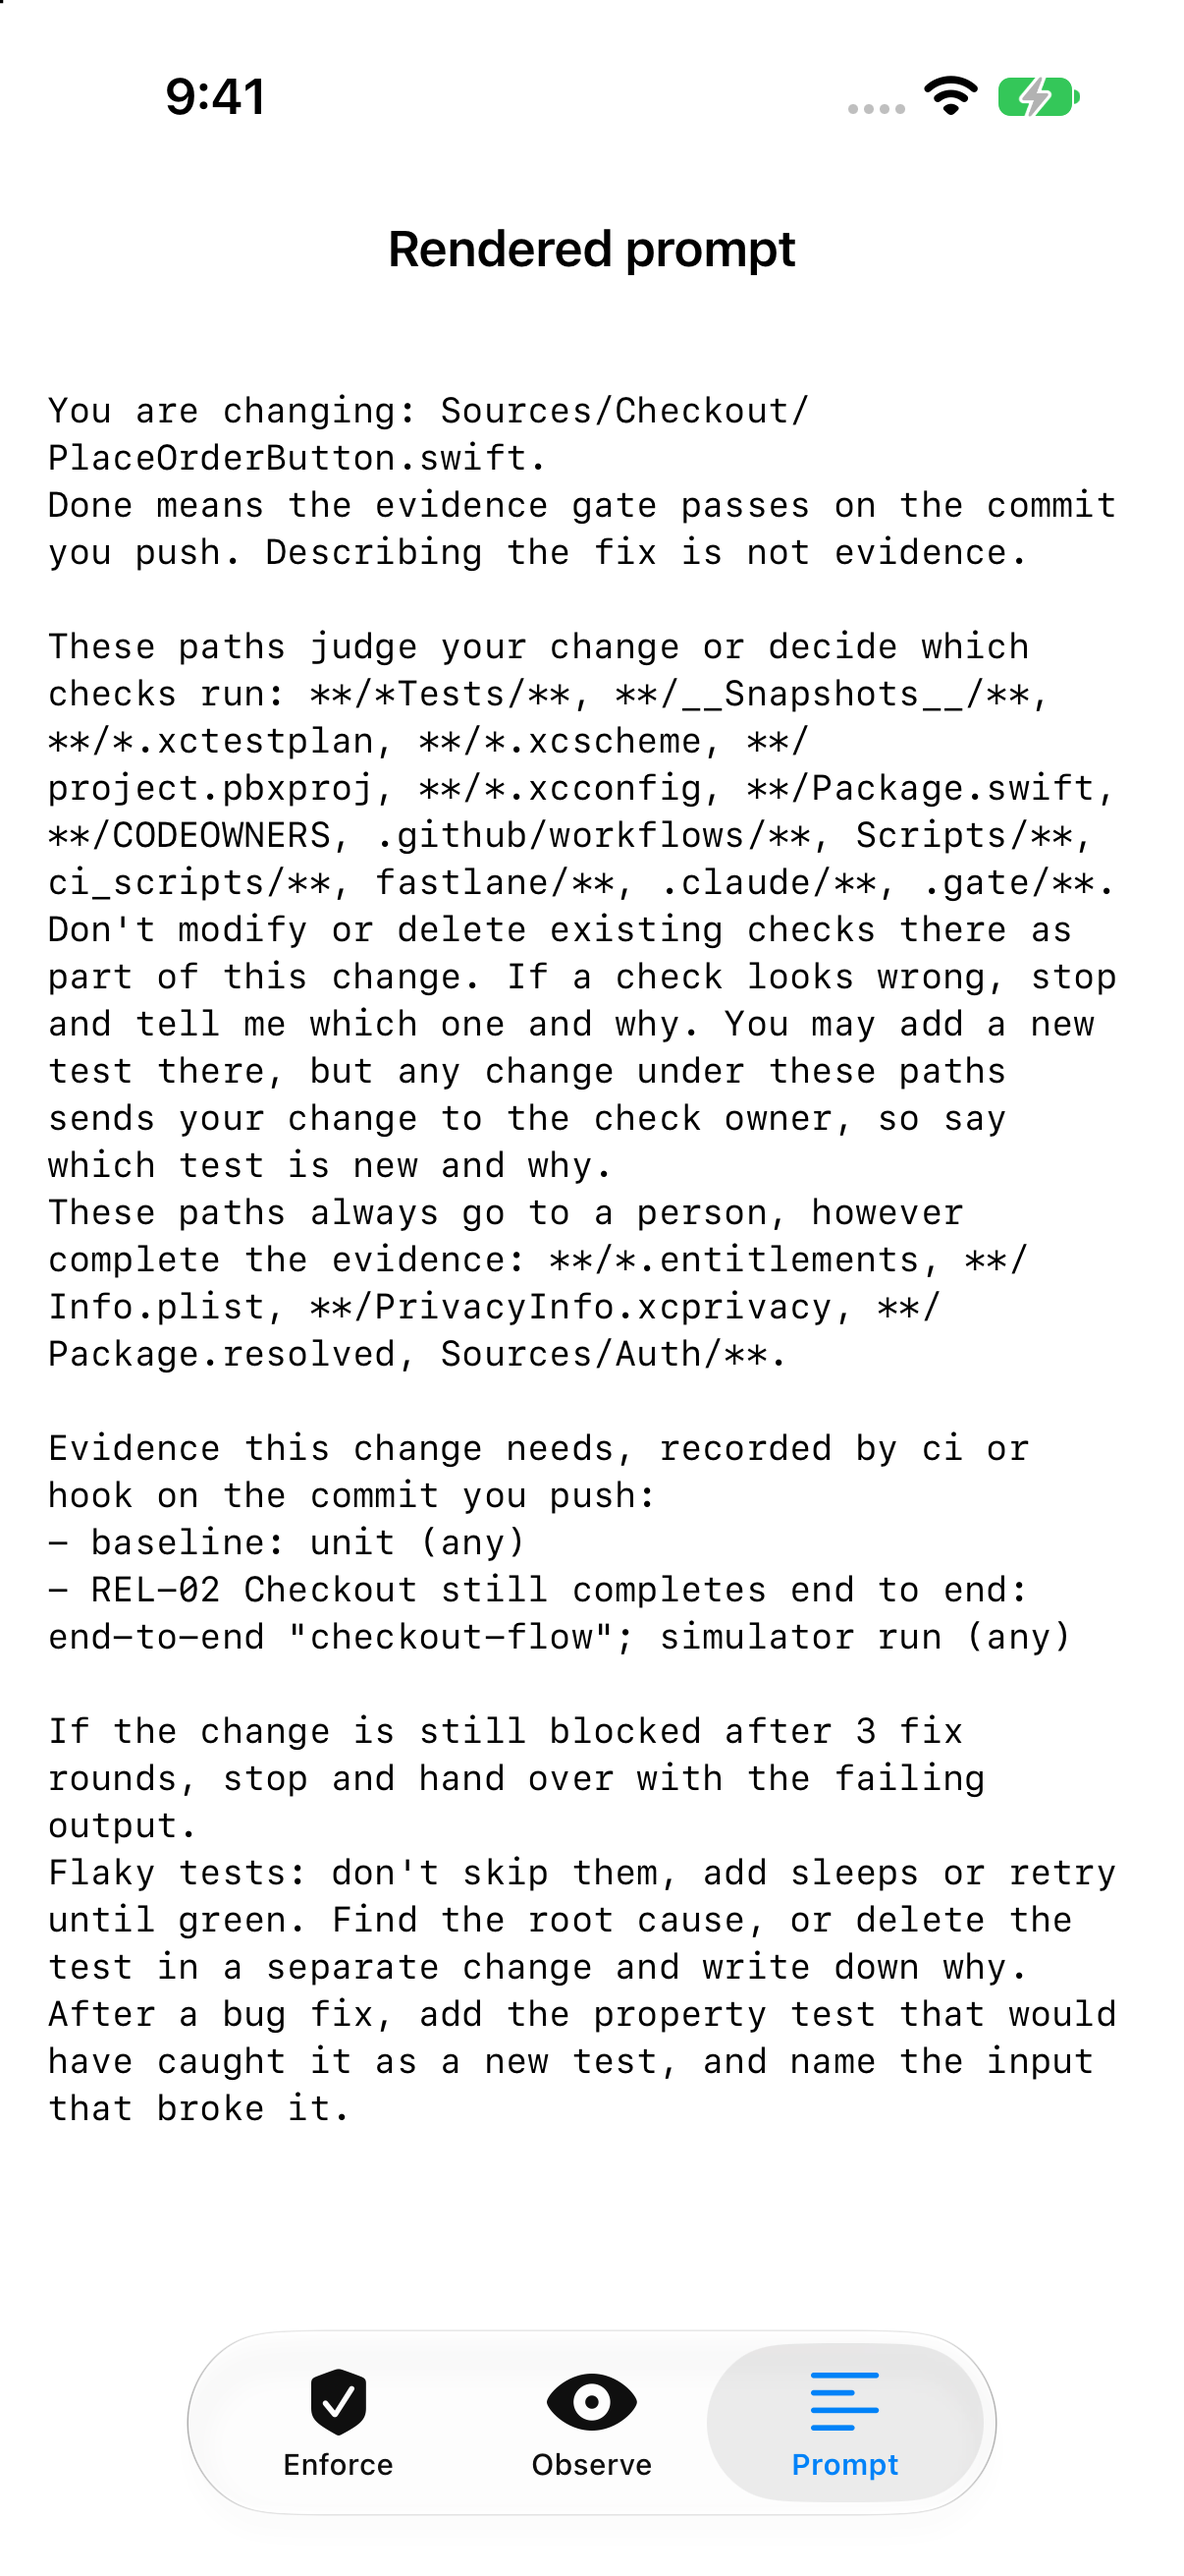
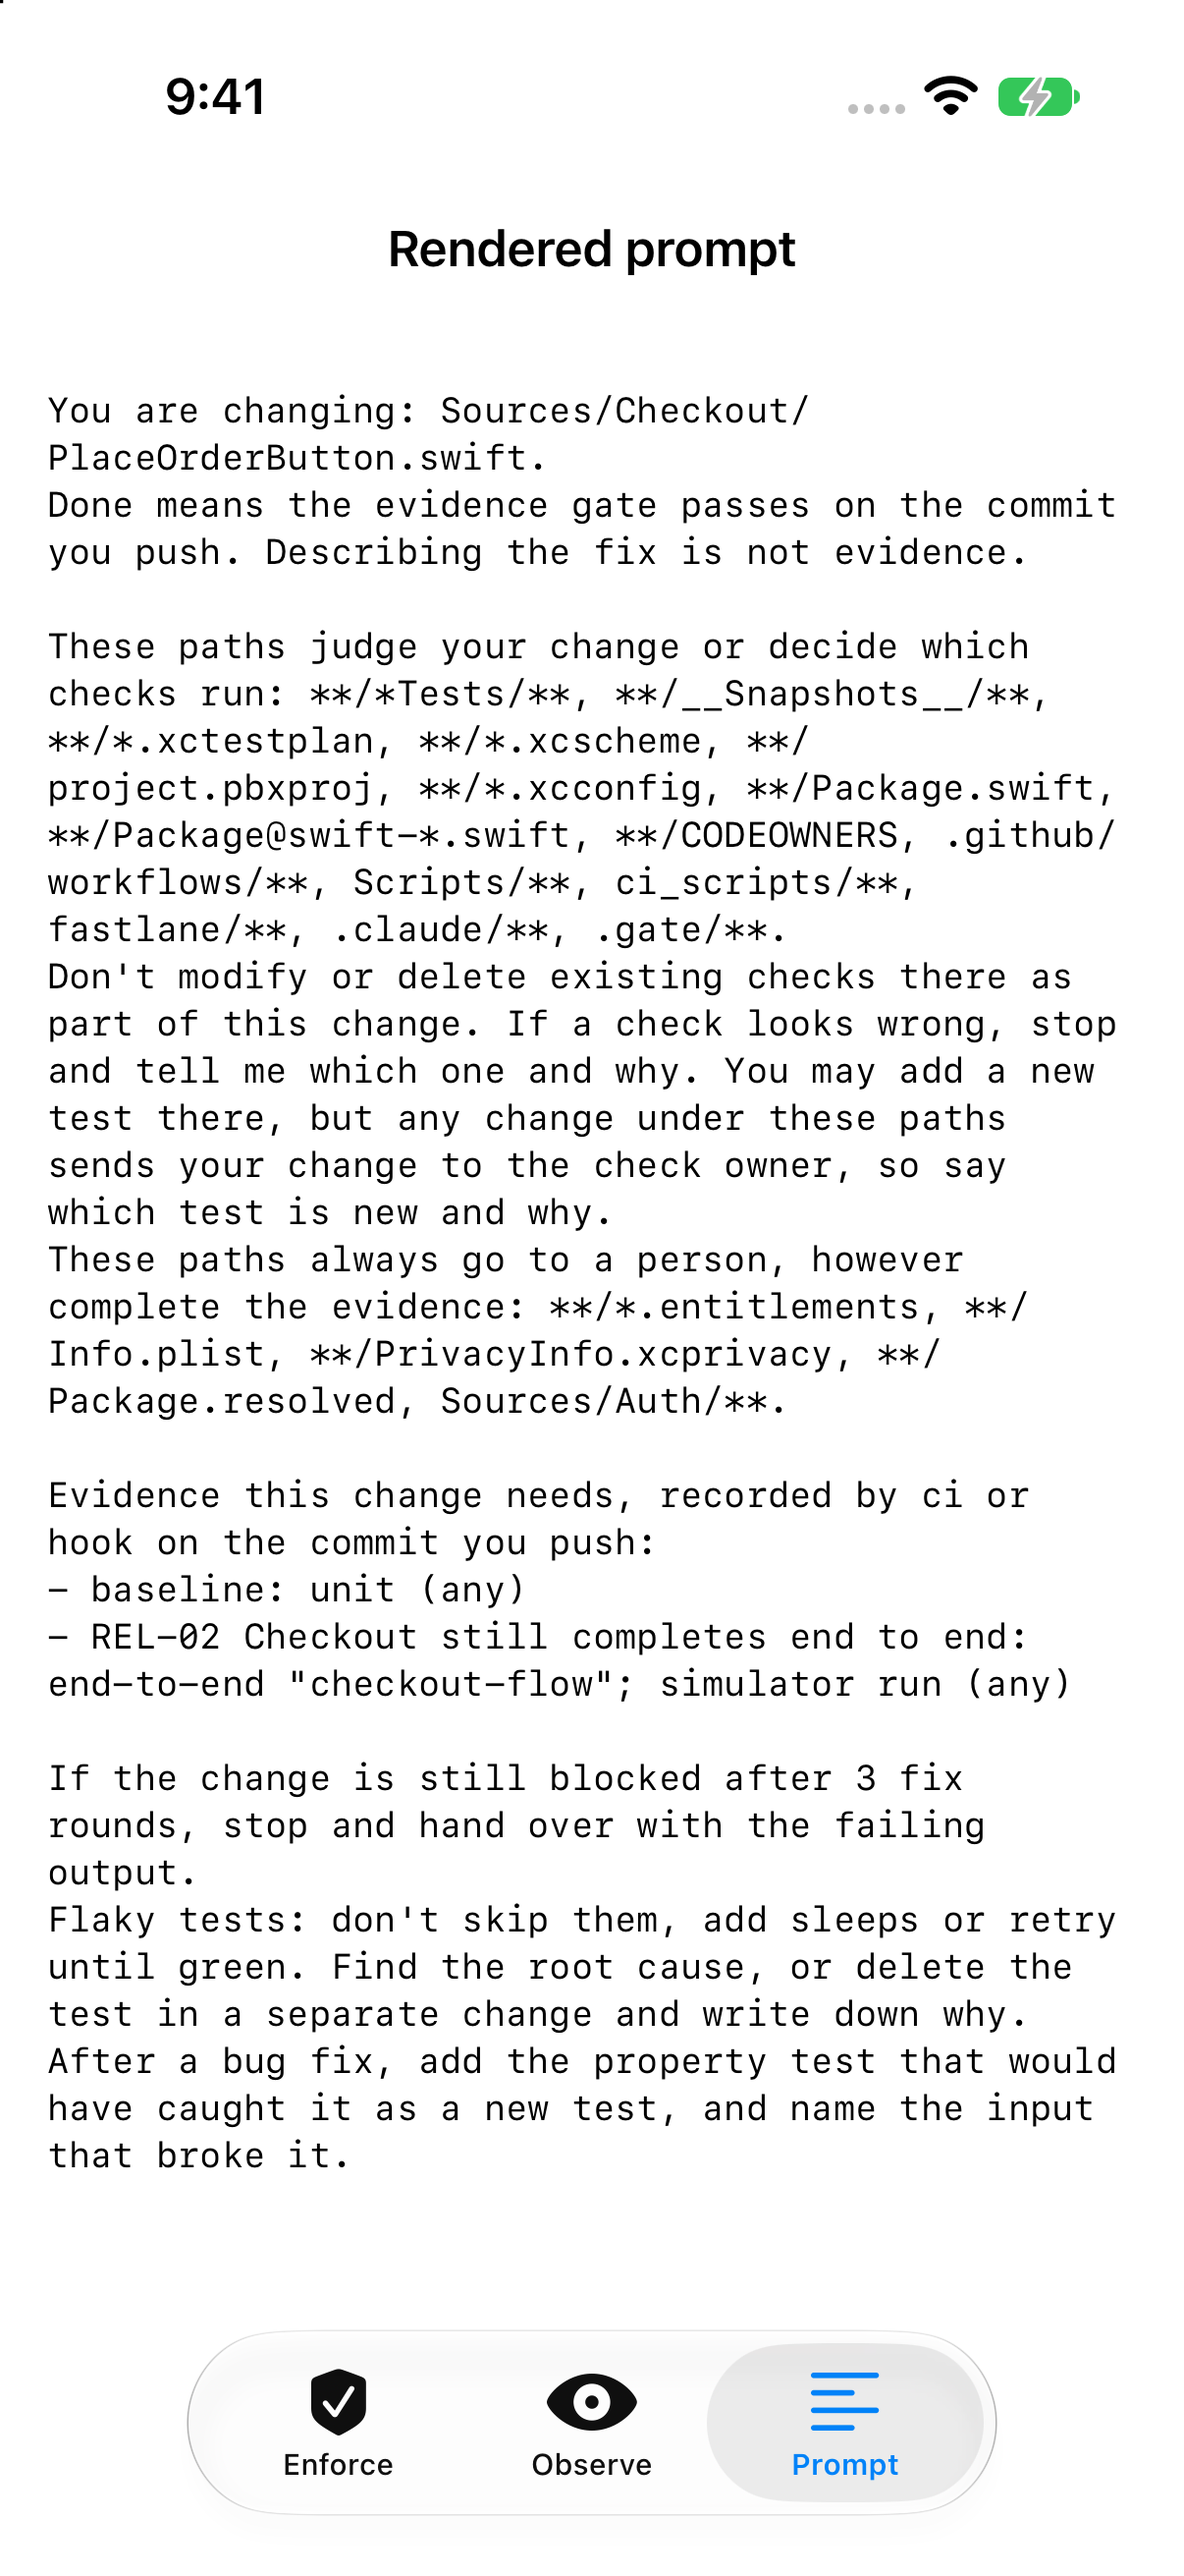
Protect Package@swift manifests; workflow_run gate job; 50 tests

Changed region(s): [[0.0307, 0.3089, 0.9511, 0.865], [0.7977, 0.6178, 0.8897, 0.6487]]

diff --git a/Tests/EvidenceGateTests/GateRuleTests.swift b/Tests/EvidenceGateTests/GateRuleTests.swift
@@ -191,7 +191,7 @@ struct EvidenceRuleTests {
 
     @Test("Files that decide which checks run are protected", arguments: [
         "Demo.xcodeproj/xcshareddata/xcschemes/Demo.xcscheme", "Demo.xcodeproj/project.pbxproj",
-        "Package.swift", "Scripts/run-ui-tests.sh", ".claude/settings.json", ".claude/hooks/record-evidence.sh",
+        "Package.swift", "Package@swift-6.0.swift", "Scripts/run-ui-tests.sh", ".claude/settings.json", ".claude/hooks/record-evidence.sh",
         ".github/CODEOWNERS", "Config/Debug.xcconfig", "ShopTests/CheckoutTests.swift", "ShopUITests/FlowTests.swift",
         "ci_scripts/ci_post_clone.sh", "fastlane/Fastfile", "Packages/Core/Package.swift", "Packages/Core/Tests/CoreTests/A.swift",
     ])
@@ -226,6 +226,12 @@ struct EvidenceRuleTests {
         #expect(gate.evaluate(change).decision == .needsHuman)
     }
 
+    @Test func aProductFileNamedLikeAManifestIsNotProtected() {
+        let change = ChangeSet(id: "x", title: "", headCommit: head,
+                               files: [ChangedFile("Sources/Shop/PackageTracker.swift")], evidence: [unit()])
+        #expect(gate.evaluate(change).decision == .pass)
+    }
+
     @Test func roundLimitHasAFloorOfOne() {
         var policy = GatePolicy(protectedChecks: [], maxFixRounds: 0)
         #expect(policy.maxFixRounds == 1)
@@ -256,7 +262,7 @@ struct PromptTests {
     @Test func promptIsRenderedFromThePolicy() {
         let prompt = PromptRenderer.instructions(policy: SampleWeek.policy(),
                                                  plannedPaths: ["Sources/Checkout/PlaceOrderButton.swift"])
-        #expect(prompt.contains("**/*Tests/**, **/__Snapshots__/**, **/*.xctestplan, **/*.xcscheme, **/project.pbxproj, **/*.xcconfig, **/Package.swift, **/CODEOWNERS, .github/workflows/**, Scripts/**, ci_scripts/**, fastlane/**, .claude/**, .gate/**"))
+        #expect(prompt.contains("**/*Tests/**, **/__Snapshots__/**, **/*.xctestplan, **/*.xcscheme, **/project.pbxproj, **/*.xcconfig, **/Package.swift, **/Package@swift-*.swift, **/CODEOWNERS, .github/workflows/**, Scripts/**, ci_scripts/**, fastlane/**, .claude/**, .gate/**"))
         #expect(prompt.contains("These paths always go to a person, however complete the evidence: **/*.entitlements"))
         #expect(prompt.contains("as part of this change"))
         #expect(prompt.contains("You may add a new test there"))

diff --git a/Sources/EvidenceGate/Samples.swift b/Sources/EvidenceGate/Samples.swift
@@ -14,6 +14,7 @@ public enum SampleWeek {
                 PathPattern("**/project.pbxproj"),
                 PathPattern("**/*.xcconfig"),
                 PathPattern("**/Package.swift"),
+                PathPattern("**/Package@swift-*.swift"),
                 PathPattern("**/CODEOWNERS"),
                 PathPattern(".github/workflows/**"),
                 PathPattern("Scripts/**"),

diff --git a/README.md b/README.md
@@ -14,7 +14,7 @@ Most rules come from the Claude Code team's post, [How the Claude Code team thin
 |------|--------------------|
 | Checks trigger on the diff | A `ChecklistItem` names the paths that trigger it (`Sources/Persistence/**`) and the evidence it needs (a differential migration test, a property test with at least 1,000 cases). Only triggered items apply. |
 | Evidence is about the head commit | Records for any other commit are ignored and listed as notes. Commits are compared exactly, so use full SHAs. |
-| A change can't pass on its own evidence if it edits its checks | The sample protects any folder whose name ends in `Tests` (`Tests/`, `UITests/`, Xcode's default `ShopTests/` and `ShopUITests/`), snapshots and test plans, plus what decides which checks run, who records evidence or who owns a check: schemes, `project.pbxproj`, `*.xcconfig`, any `Package.swift`, `CODEOWNERS`, CI workflows, `Scripts/`, Xcode Cloud's `ci_scripts/`, `fastlane/`, `.claude/` and `.gate/` (where you'd keep the gate executable and its compiled-in policy). Add your own if your checks live elsewhere. Editing them in a product change sends it to a person. Paths are normalized (`Sources/../Tests/x` is caught), renames count at both ends, and matching ignores case, because the default macOS file system does. |
+| A change can't pass on its own evidence if it edits its checks | The sample protects any folder whose name ends in `Tests` (`Tests/`, `UITests/`, Xcode's default `ShopTests/` and `ShopUITests/`), snapshots and test plans, plus what decides which checks run, who records evidence or who owns a check: schemes, `project.pbxproj`, `*.xcconfig`, any `Package.swift` or version-specific `Package@swift-X.Y.swift`, `CODEOWNERS`, CI workflows, `Scripts/`, Xcode Cloud's `ci_scripts/`, `fastlane/`, `.claude/` and `.gate/` (where you'd keep the gate executable and its compiled-in policy). Add your own if your checks live elsewhere. Editing them in a product change sends it to a person. Paths are normalized (`Sources/../Tests/x` is caught), renames count at both ends, and matching ignores case, because the default macOS file system does. |
 | No quiet deletions | Deleting a protected file without a written reason goes back to the agent; with one, the check owner reviews it. |
 | A round limit, then a person | A change still blocked after `maxFixRounds` (default 3), for any reason, escalates. Fewer rounds go back to the agent. Count a round each time the gate blocks a new head commit. |
 | Observe before enforce | `.observe` lets everything through and records what `.enforce` would have done. `.off` doesn't run (`decision == .notEvaluated`). |
@@ -49,7 +49,7 @@ let prompt = PromptRenderer.instructions(policy: policy,
 
 Gate agent-authored PRs, identified by a bot account rather than a label the agent could remove; if agents push under people's accounts, gate every PR. Human PRs otherwise keep your usual review. Post the verdict's findings as the check's output so the agent's next round reads them. Build every input in CI, never from the agent's own report. The gate trusts every field of `ChangeSet`: if the agent supplied the file list, it could leave the test file out.
 
-Run the gate job itself from the base branch (a required workflow or ruleset, or `pull_request_target` that checks out the base branch for the gate and never builds or runs the PR's code, since SwiftPM manifests are code; it downloads the evidence file the head commit's test run produced) and make its verdict a required check. A normal `pull_request` workflow runs the PR's own copy, so a change that edits CI could rewrite the gate that judges it. Map `needsHuman` to a failing required check that only a person's approval clears. The gate has no approval input, so your base-branch job (for example `pull_request_target`, or a ruleset-required workflow) has to look up, through the API, an approving review whose `commit_id` is the head SHA from the CODEOWNERS of the flagged paths (or turn on "Dismiss stale pull request approvals"), and only then report success. Don't clear a round-limit escalation that still has a failing run: the lead takes the change over instead. Re-run that job after the review is submitted (for example, a re-run from a base-branch workflow), since a `pull_request_target` job doesn't re-run on its own when someone approves. A pass skips review only if your branch rules don't also require an approval for those paths. Don't do this from a `pull_request_review` workflow: it runs the PR's own copy of the workflow. Turn on "Require review from Code Owners", give every sensitive path a CODEOWNERS entry, and route round-limit escalations on product code to a named lead, since those have no test owner.
+Run the gate job itself from the base branch: on GitHub, a `workflow_run` job that starts when the test workflow finishes, downloads its evidence file, never builds or runs the PR's code (SwiftPM manifests are code) and posts a commit status for the head SHA and make its verdict a required check. A normal `pull_request` workflow runs the PR's own copy, so a change that edits CI could rewrite the gate that judges it. Map `needsHuman` to a failing required check that only a person's approval clears. The gate has no approval input, so that base-branch `workflow_run` job has to look up, through the API, an approving review whose `commit_id` is the head SHA from the CODEOWNERS of the flagged paths (or turn on "Dismiss stale pull request approvals"), and only then report success. Don't clear a round-limit escalation that still has a failing run: the lead takes the change over instead. Re-run that job after the review is submitted (for example, a scheduled or manually dispatched base-branch workflow that re-checks PRs waiting on approval), since it doesn't re-run on its own when someone approves. A pass skips review only if your branch rules don't also require an approval for those paths. Don't do this from a `pull_request_review` workflow: it runs the PR's own copy of the workflow. Turn on "Require review from Code Owners", give every sensitive path a CODEOWNERS entry, and route round-limit escalations on product code to a named lead, since those have no test owner.
 
 ```swift
 // git -c core.quotePath=false diff --name-status -M origin/main...HEAD
@@ -96,7 +96,7 @@ Library tests run with `swift test`, or open `Package.swift` in Xcode and press 
 
 ## Tests
 
-49 Swift Testing tests in 7 suites, including six property tests. Each property runs 2,000 generated changes (8 fixed seeds × 250, with a deterministic SplitMix64 generator so a failure reproduces). The generator includes deletions with and without reasons, renames, `./` and `../` paths, case variants, sensitive files, untrusted and stale evidence, and property runs with no case count.
+50 Swift Testing tests in 7 suites, including six property tests. Each property runs 2,000 generated changes (8 fixed seeds × 250, with a deterministic SplitMix64 generator so a failure reproduces). The generator includes deletions with and without reasons, renames, `./` and `../` paths, case variants, sensitive files, untrusted and stale evidence, and property runs with no case count.
 
 - The order of files and evidence never changes the verdict.
 - Adding a test edit to a product change never lets it pass, and is always reported.
@@ -140,7 +140,7 @@ A further test checks the generator reaches pass, block and needs-a-person at le
 
 ## Verification status
 
-For the version in this repo: clean `swift build -Xswiftc -warnings-as-errors` and `swift test` (49 tests in 7 suites passed) on macOS with Xcode 27.2 / Swift 6.4.2. The demo app was built with `xcodebuild`, installed and launched on a fresh iPhone 17 Pro Simulator (iOS 27.2) for each tab, and confirmed still running; `week.png`, `observe.png` and `prompt.png` in `Demo/Screenshots/` come from that run, and `week-cropped.png` is `week.png` cropped above the tab bar. CI: (added after the first run)
+For the version in this repo: clean `swift build -Xswiftc -warnings-as-errors` and `swift test` (50 tests in 7 suites passed) on macOS with Xcode 27.2 / Swift 6.4.2. The demo app was built with `xcodebuild`, installed and launched on a fresh iPhone 17 Pro Simulator (iOS 27.2) for each tab, and confirmed still running; `week.png`, `observe.png` and `prompt.png` in `Demo/Screenshots/` come from that run, and `week-cropped.png` is `week.png` cropped above the tab bar. CI: (added after the first run)
 
 ## Sources
 
